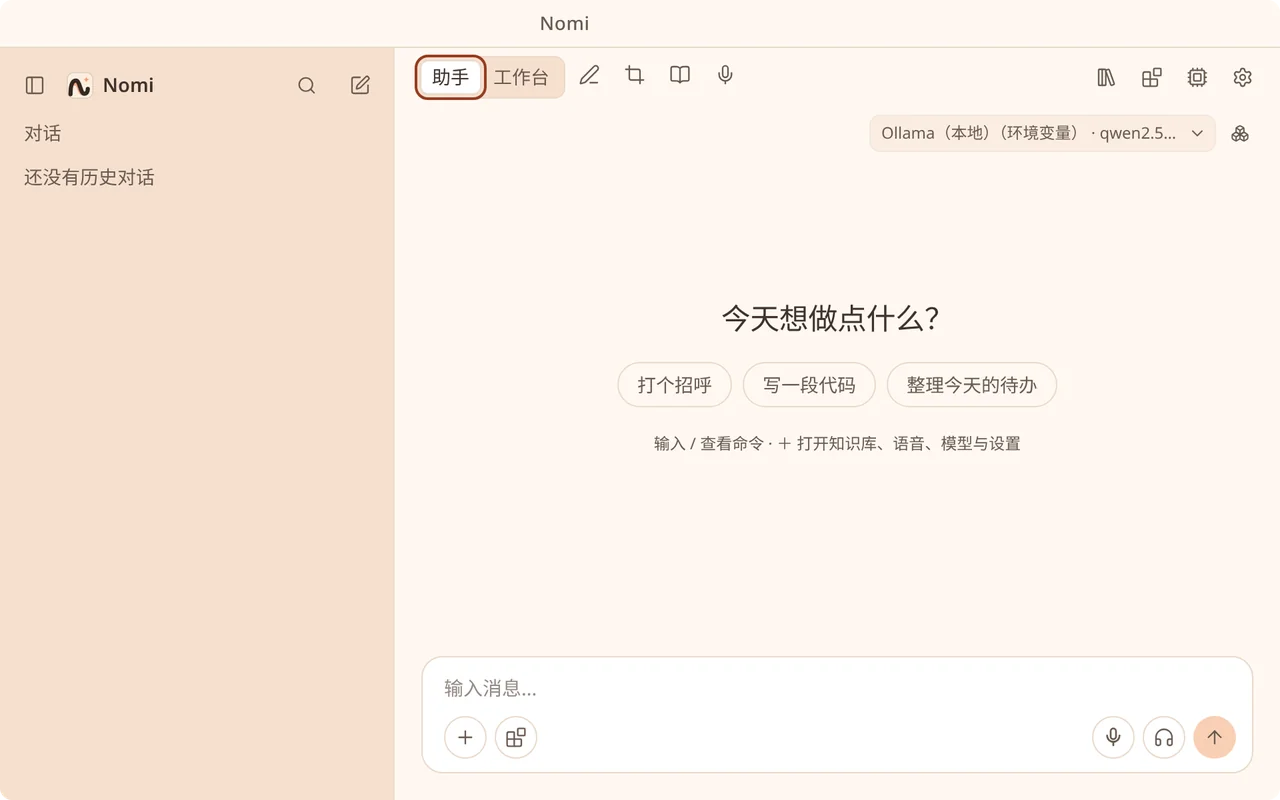
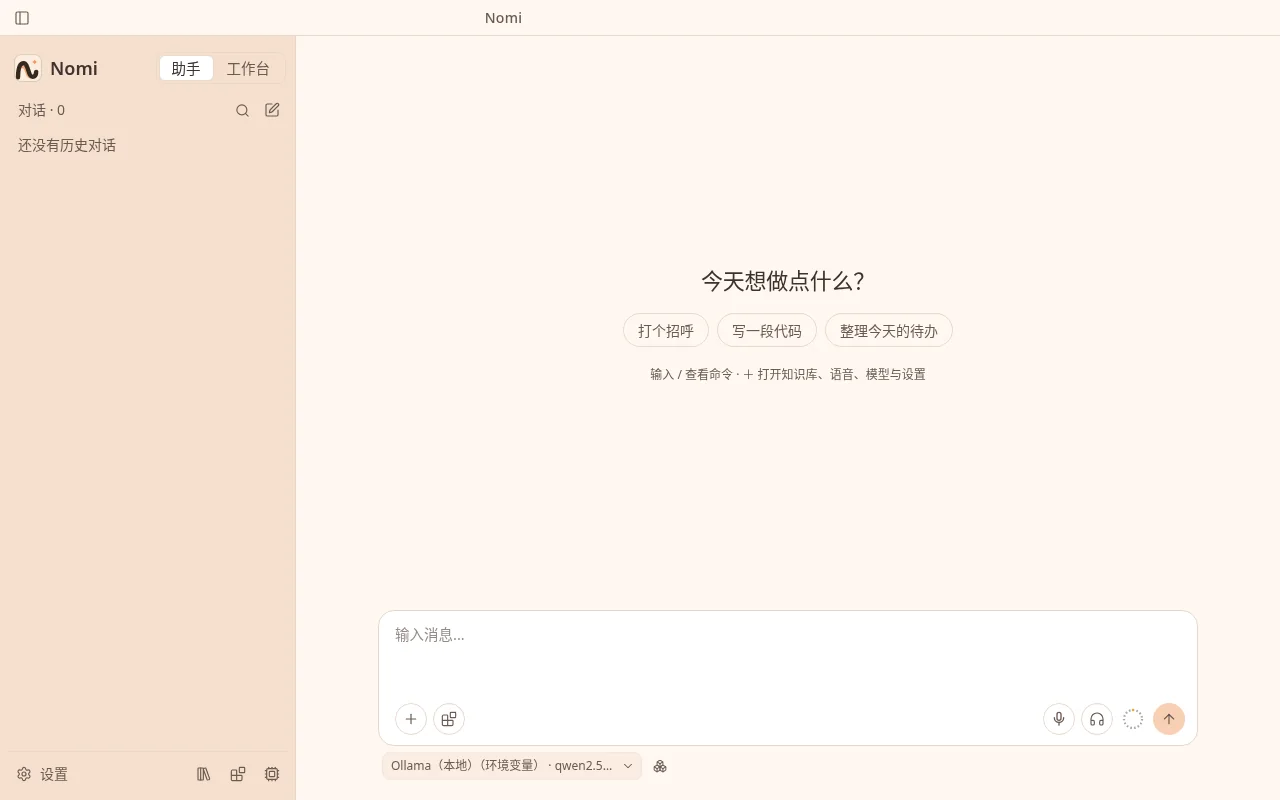
docs(readme): retake six stale screenshots from real Electron
Captured under xvfb with the mock CLI in an isolated HOME; no personal data in frame.

diff --git a/README.md b/README.md
@@ -43,7 +43,7 @@
     <td align="center" colspan="2"><img src="docs/screenshots/coding-agent.webp" alt="Claude Code conversation with tool calls and a subagent" width="49%"> <img src="docs/screenshots/permission-modes.webp" alt="Permission mode menu in the composer" width="49%"><br><sub>编程助手对话 · 权限模式 / Coding agents · Permission modes</sub></td>
   </tr>
   <tr>
-    <td align="center" colspan="2"><img src="docs/screenshots/coding-accounts.webp" alt="Claude Code page with version and official accounts" width="49%"> <img src="docs/screenshots/settings-providers.webp" alt="Coding assistants settings with Nomi providers" width="49%"><br><sub>官方账号与版本 · 供应商与模型 / Official accounts & version · Providers & models</sub></td>
+    <td align="center" colspan="2"><img src="docs/screenshots/coding-accounts.webp" alt="Claude Code page with version and official accounts" width="49%"> <img src="docs/screenshots/settings-providers.webp" alt="Models page with third-party model assignment and provider list" width="49%"><br><sub>官方账号与版本 · 供应商与模型 / Official accounts & version · Providers & models</sub></td>
   </tr>
   <tr>
     <td align="center" colspan="2"><img src="docs/screenshots/command-palette.webp" alt="Command palette" width="32%"> <img src="docs/screenshots/import-tools.webp" alt="Import MCP servers and skills from Claude Code and Codex" width="32%"> <img src="docs/screenshots/themes.webp" alt="Themes and chat background" width="32%"><br><sub>命令面板 · 从其他工具导入 · 主题与聊天背景 / Command palette · Import from other tools · Themes & chat background</sub></td>
